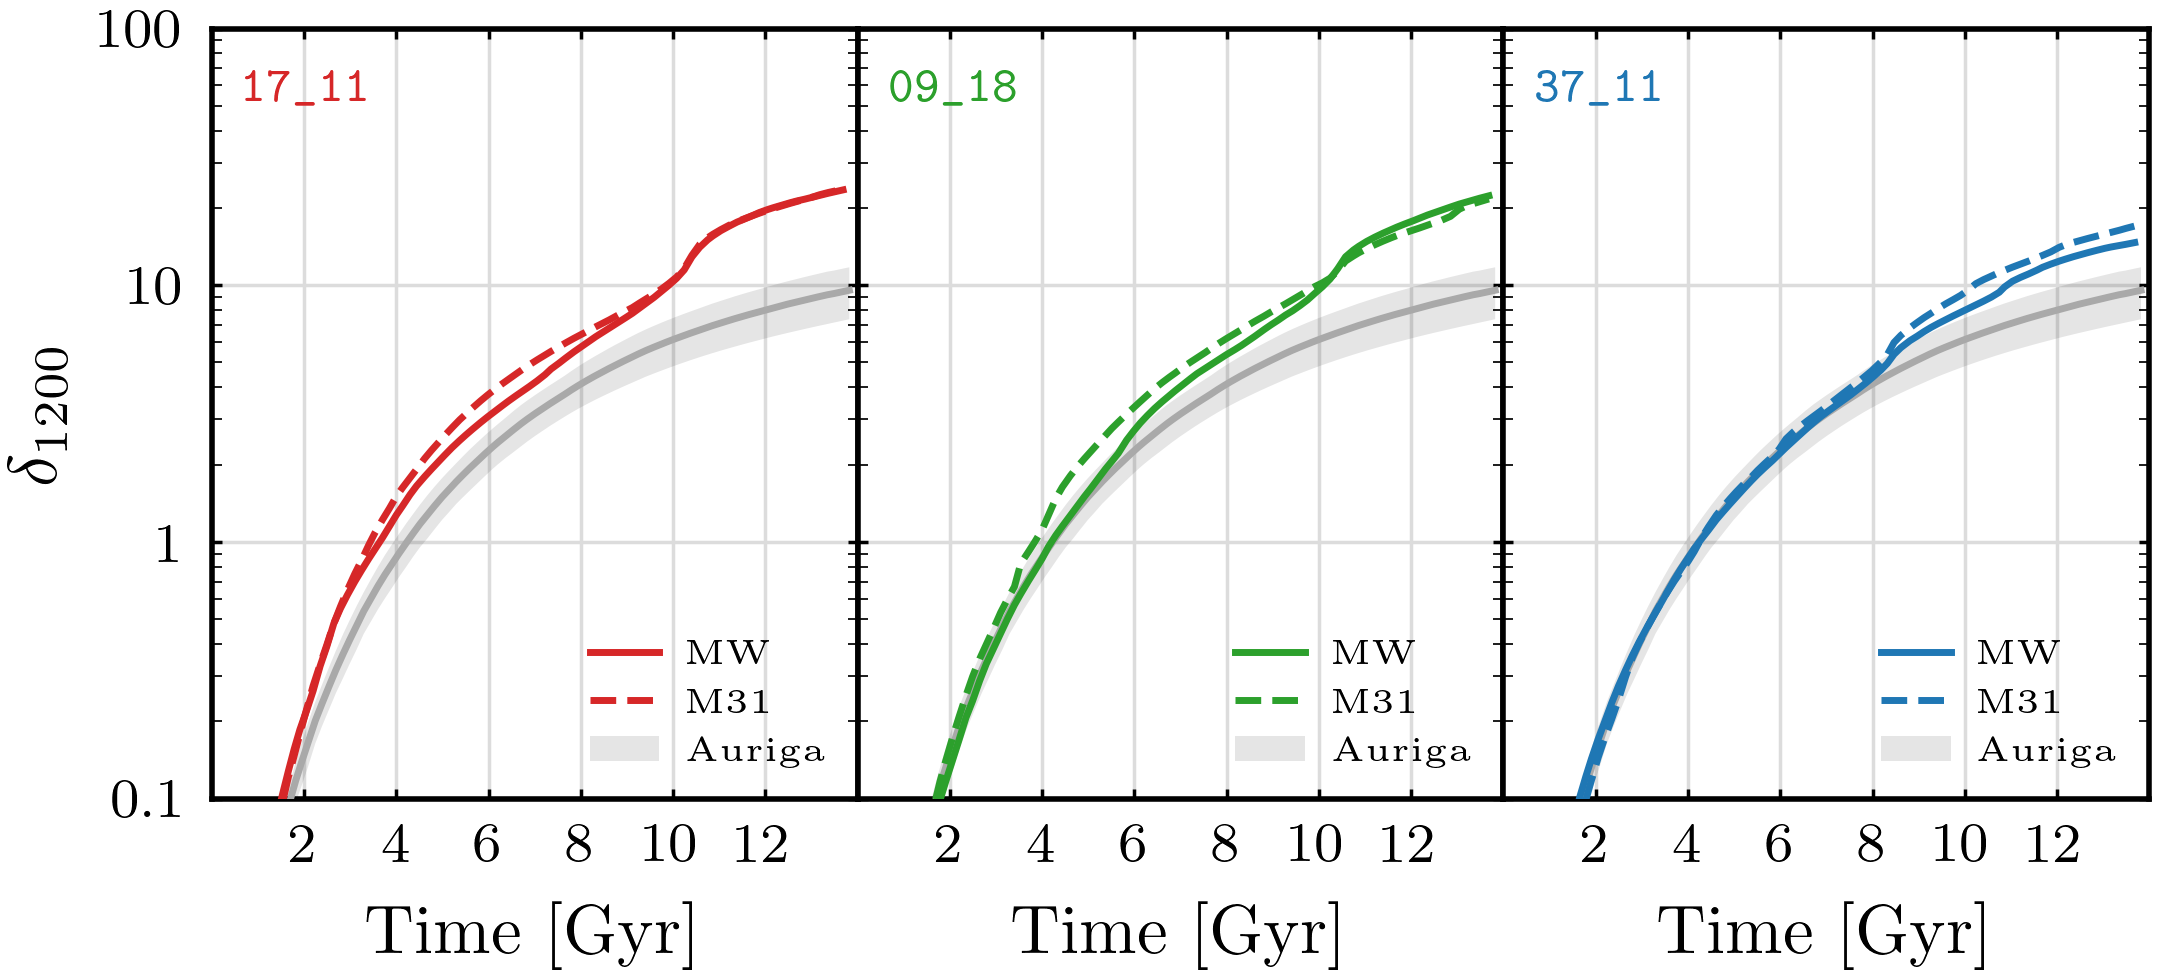
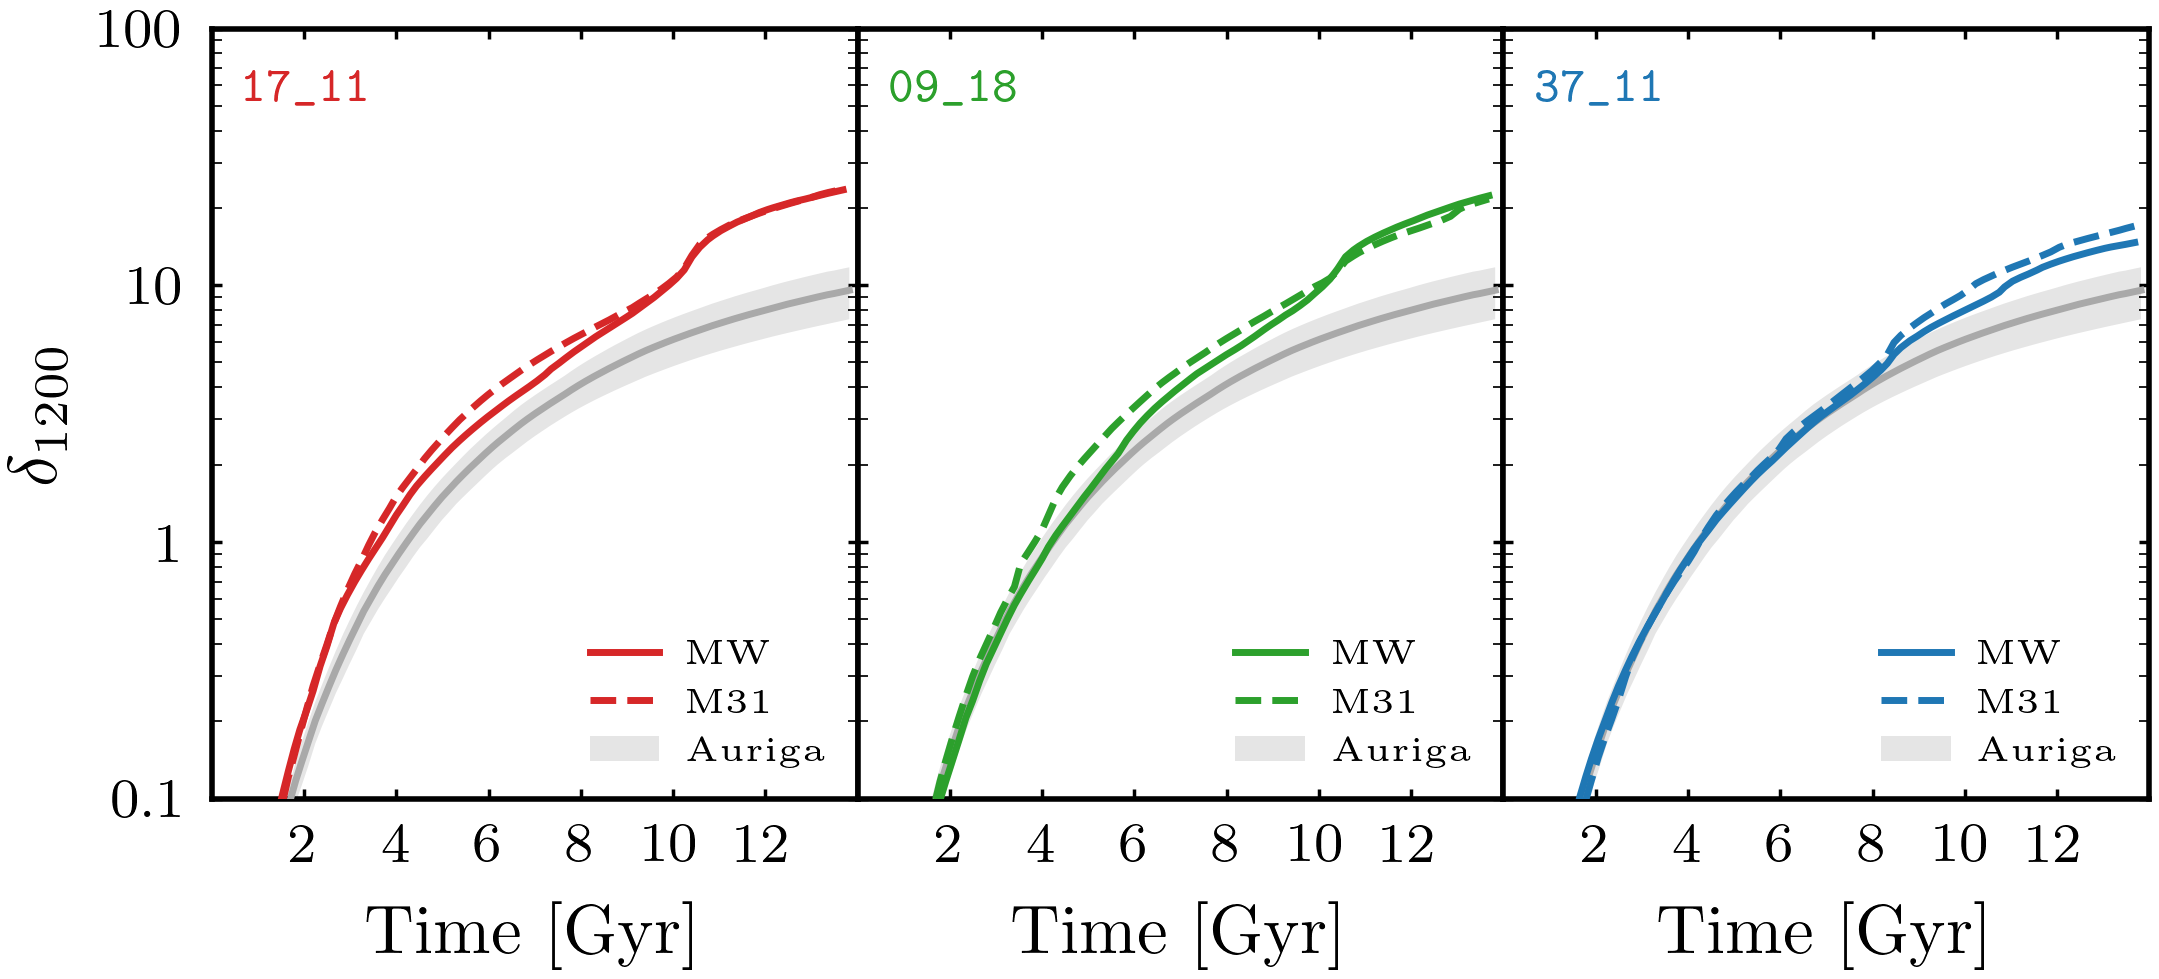
Remove grids.

diff --git a/visualisation/disc_size.py b/visualisation/disc_size.py
@@ -58,7 +58,6 @@ def plot_disc_radius(config: dict) -> None:
 
     for ax in axs.flatten():
         ax.set_axisbelow(True)
-        ax.grid(True)
         ax.set_xlim(0, 14)
         ax.set_xticks([2, 4, 6, 8, 10, 12])
         ax.set_xlabel(r'Time [Gyr]')
@@ -110,7 +109,6 @@ def plot_disc_height(config: dict) -> None:
 
     for ax in axs.flatten():
         ax.set_axisbelow(True)
-        ax.grid(True)
         ax.set_xlim(0, 14)
         ax.set_xticks([2, 4, 6, 8, 10, 12])
         ax.set_xlabel(r'Time [Gyr]')

diff --git a/visualisation/accretion_tracers.py b/visualisation/accretion_tracers.py
@@ -111,7 +111,6 @@ def make_plot(config: dict, rate_type: RateType) -> None:
 
     for ax in axs:
         ax.set_axisbelow(True)
-        ax.grid(True)
         ax.set_xlim(0, 14)
         ax.set_ylim(0.1, 200)
         ax.set_yscale("log")

diff --git a/visualisation/accretion_cells.py b/visualisation/accretion_cells.py
@@ -63,7 +63,6 @@ def make_plot(config: dict) -> None:
 
     for ax in axs:
         ax.set_axisbelow(True)
-        ax.grid(True)
         ax.set_xlim(0, 14)
         ax.set_ylim(0.1, 200)
         ax.set_yscale("log")

diff --git a/visualisation/environment.py b/visualisation/environment.py
@@ -34,7 +34,6 @@ def make_plot() -> None:
 
     for ax in axs.flatten():
         ax.set_axisbelow(True)
-        ax.grid(True)
         ax.set_xlim(0, 14)
         ax.set_ylim(0.1, 100)
         ax.set_yscale("log")
